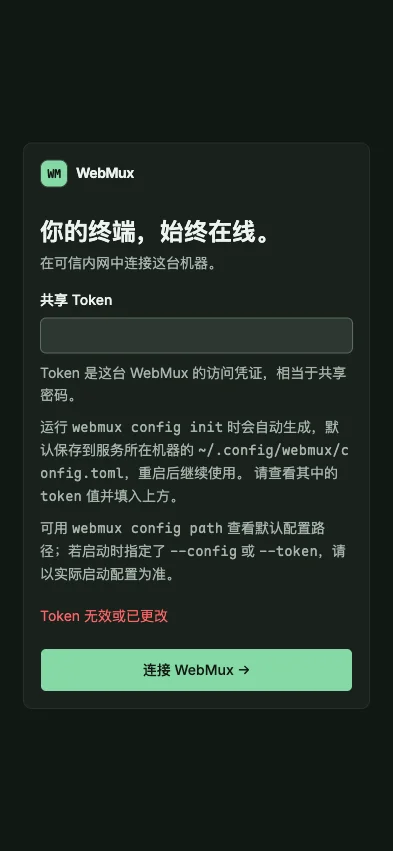
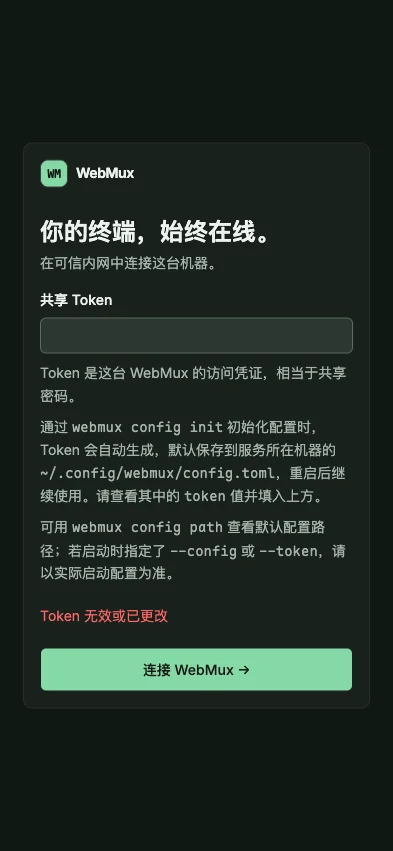
fix(web): clarify token generation during initialization (#107)

Changed region(s): [[0.0916, 0.4583, 0.8855, 0.7027]]

diff --git a/web/src/App.svelte b/web/src/App.svelte
@@ -96,10 +96,10 @@
               >
                 <p>Token 是这台 WebMux 的访问凭证，相当于共享密码。</p>
                 <p>
-                  运行 <code>webmux config init</code>
-                  时会自动生成，默认保存到服务所在机器的
+                  通过 <code>webmux config init</code>
+                  初始化配置时，Token 会自动生成，默认保存到服务所在机器的
                   <code class="break-all">~/.config/webmux/config.toml</code
-                  >，重启后继续使用。 请查看其中的 <code>token</code> 值并填入上方。
+                  >，重启后继续使用。请查看其中的 <code>token</code> 值并填入上方。
                 </p>
                 <p>
                   可用 <code>webmux config path</code>

diff --git a/docs/user-stories.md b/docs/user-stories.md
@@ -39,14 +39,14 @@
 
 ## A. 连接、认证与访问边界
 
-| 编号 / 功能            | User story                                                                                    | 验收要点                                                                                                                                                                                                                                                                              |
-| ---------------------- | --------------------------------------------------------------------------------------------- | ------------------------------------------------------------------------------------------------------------------------------------------------------------------------------------------------------------------------------------------------------------------------------------- |
-| US-A01 连接服务        | 作为使用者，我希望在浏览器中连接自己的 WebMux，以便在不安装终端客户端的情况下操作服务器。     | 打开页面后检查服务可用性；显示连接中、连接失败或可用状态；未设置 token 的服务可直接进入。                                                                                                                                                                                             |
-| US-A02 共享 token 登录 | 作为使用者，我希望输入并在本机记住共享 token，以便以后方便地访问自己的会话。                  | 登录页说明 token 是共享访问密码，提示 `config init` 自动生成并持久保存、默认配置位置及启动参数覆盖；输入框关联帮助说明；启用认证后，正确 token 才能访问 HTTP API 与 WebSocket；当前浏览器保存 token；错误或变更后的 token 触发重新认证提示；本机套接字采用同用户身份校验，见 US-M08。 |
-| US-A03 可信网络访问    | 作为部署者，我希望控制监听地址和允许的浏览器来源，以便只从预期的本机或可信 VPN 入口操作终端。 | 默认监听 loopback；校验 Host 与 Origin；可配置额外完整 Origin；认证和来源检查同时覆盖终端与文件、仓库、代码接口。                                                                                                                                                                     |
-| US-A04 查看服务与能力  | 作为部署者，我希望知道服务是否在线、会话数量及 Git/仓库能力是否可用，以便定位连接或环境问题。 | 健康检查返回可用状态和会话数；配置接口提供默认目录、主机名和工作区能力，不返回 token；首页展示连接与能力异常。                                                                                                                                                                        |
-| US-A05 脚本访问        | 作为进阶使用者，我希望通过 REST 和 WebSocket 操作会话，以便接入自己的脚本或客户端。           | 提供会话、配置、目录、上传、仓库与只读代码接口；列表和终端分别提供实时流；遵循相同认证、错误和生命周期边界，详见 [协议](protocol.md)。                                                                                                                                                |
-| US-A06 带凭据链接登录  | 作为使用者，我希望打开带 token 片段的访问链接就能登录，以便从终端或托盘把入口带到手机。       | 前端读取并保存 `#token=` 后立即移除地址栏和当前历史记录中的片段；片段不发送到服务器；WebSocket 认证通过子协议携带 token，不放入请求 URL 或 Cookie；链接仍是敏感入口。                                                                                                                 |
+| 编号 / 功能            | User story                                                                                    | 验收要点                                                                                                                                                                                                                                                                                              |
+| ---------------------- | --------------------------------------------------------------------------------------------- | ----------------------------------------------------------------------------------------------------------------------------------------------------------------------------------------------------------------------------------------------------------------------------------------------------- |
+| US-A01 连接服务        | 作为使用者，我希望在浏览器中连接自己的 WebMux，以便在不安装终端客户端的情况下操作服务器。     | 打开页面后检查服务可用性；显示连接中、连接失败或可用状态；未设置 token 的服务可直接进入。                                                                                                                                                                                                             |
+| US-A02 共享 token 登录 | 作为使用者，我希望输入并在本机记住共享 token，以便以后方便地访问自己的会话。                  | 登录页说明 token 是共享访问密码，提示通过 `config init` 初始化配置时自动生成并持久保存、默认配置位置及启动参数覆盖；输入框关联帮助说明；启用认证后，正确 token 才能访问 HTTP API 与 WebSocket；当前浏览器保存 token；错误或变更后的 token 触发重新认证提示；本机套接字采用同用户身份校验，见 US-M08。 |
+| US-A03 可信网络访问    | 作为部署者，我希望控制监听地址和允许的浏览器来源，以便只从预期的本机或可信 VPN 入口操作终端。 | 默认监听 loopback；校验 Host 与 Origin；可配置额外完整 Origin；认证和来源检查同时覆盖终端与文件、仓库、代码接口。                                                                                                                                                                                     |
+| US-A04 查看服务与能力  | 作为部署者，我希望知道服务是否在线、会话数量及 Git/仓库能力是否可用，以便定位连接或环境问题。 | 健康检查返回可用状态和会话数；配置接口提供默认目录、主机名和工作区能力，不返回 token；首页展示连接与能力异常。                                                                                                                                                                                        |
+| US-A05 脚本访问        | 作为进阶使用者，我希望通过 REST 和 WebSocket 操作会话，以便接入自己的脚本或客户端。           | 提供会话、配置、目录、上传、仓库与只读代码接口；列表和终端分别提供实时流；遵循相同认证、错误和生命周期边界，详见 [协议](protocol.md)。                                                                                                                                                                |
+| US-A06 带凭据链接登录  | 作为使用者，我希望打开带 token 片段的访问链接就能登录，以便从终端或托盘把入口带到手机。       | 前端读取并保存 `#token=` 后立即移除地址栏和当前历史记录中的片段；片段不发送到服务器；WebSocket 认证通过子协议携带 token，不放入请求 URL 或 Cookie；链接仍是敏感入口。                                                                                                                                 |
 
 依据：[应用入口](../web/src/App.svelte)、[配置命令](../cmd/webmux/configcmd.go)、[API 路由与安全检查](../internal/api/router.go)、[Host 校验](../internal/api/host.go)、[安全说明](../SECURITY.md)。
 
